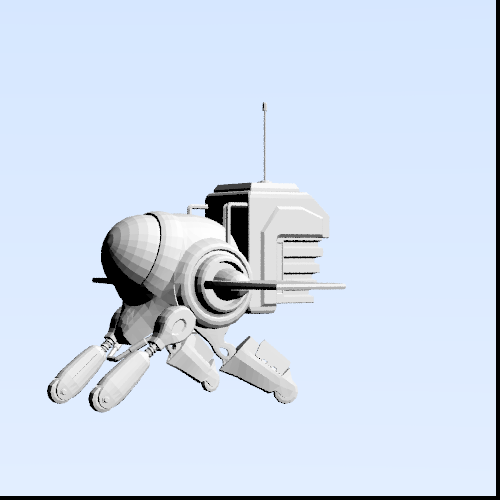
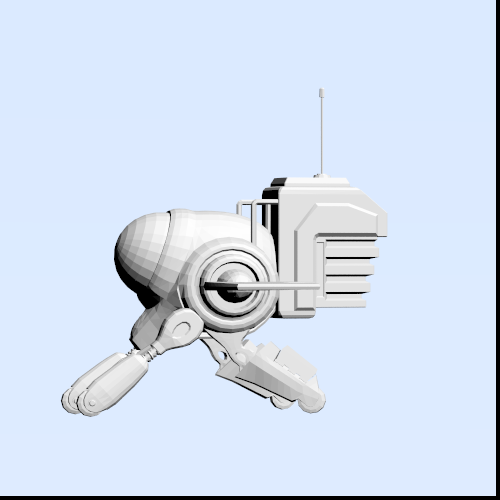
fix stuff

Changed region(s): [[0.09, 0.18, 0.78, 0.84]]

diff --git a/examples/gpu.rs b/examples/gpu.rs
@@ -1,5 +1,6 @@
 use std::{mem::size_of, rc::Rc, time::Instant};
 
+use cgmath::{vec3, Transform};
 use gpu_tracer::{
     gpu::{
         blas::{Blas, Instance},
@@ -32,10 +33,7 @@ fn load_shader(name: &str) -> String {
     shader_compiler.compile()
 }
 #[derive(Clone, Copy)]
-struct Progress {
-    pub frame: u32,
-    pub bounce: u32,
-}
+struct Params(pub Mat4, pub Mat4, pub u32, pub u32);
 
 fn main() {
     let gpu = Gpu::new("My Application");
@@ -69,9 +67,9 @@ fn main() {
     let width = 500;
     let height = 500;
     let frame_data = gpu.create_frame_data(device_context.clone(), UVec2::new(width, height));
-    let ray_generation_shader = load_shader("ray_gen.glsl");
+    let ray_gen = load_shader("ray_gen.glsl");
     let mut gpu_ray_generator =
-        GpuRayGenerator::new_from_string(device_context.clone(), &ray_generation_shader, 1, None);
+        GpuRayGenerator::new_from_string(device_context.clone(), &ray_gen, 1, None);
     let mut gpu_intersector = GpuIntersector::new(device_context.clone(), 1);
 
     let ray_shader = load_shader("ray_shader.glsl");
@@ -92,21 +90,25 @@ fn main() {
     transition_buffer.image_resource_transition(&mut image, ImageLayout::GENERAL);
     transition_buffer.submit();
 
-    let mut progress = Progress {
-        frame: 0,
-        bounce: 0,
-    };
+    let proj_inverse =
+        cgmath::perspective(cgmath::Deg(45.0), width as f32 / height as f32, 0.01, 100.0)
+            .inverse_transform()
+            .unwrap();
+    let view_inverse = Mat4::from_translation(vec3(-3.0, 0.0, 10.0))
+        .inverse_transform()
+        .unwrap();
+    let mut progress = Params(view_inverse, proj_inverse, 0, 0);
     gpu_shader.set_user_buffer(1, 0, &index_buffer);
     gpu_shader.set_user_buffer(1, 1, &vertex_buffer);
     let now = Instant::now();
     let mut command_buffer = CommandBuffer::new(queue.clone());
     command_buffer.begin();
-    for _ in 0..4 {
+    for _ in 0..32 {
         gpu_ray_generator.generate_rays(&mut command_buffer, &frame_data, Some(&progress));
         gpu_intersector.intersect(&mut command_buffer, &frame_data, &acceleration_structure);
         gpu_shader.shade_rays(&mut command_buffer, &frame_data, &acceleration_structure);
         ray_accumulator.accumulate(&mut command_buffer, &frame_data, &mut image);
-        progress.frame += 1
+        progress.2 += 1
     }
     command_buffer.submit();
     let elapsed_time = now.elapsed();
@@ -126,7 +128,7 @@ fn main() {
         let pixels: Vec<HdrColor> = staging_buffer.copy_data();
         write_hdr_buffer_to_file(
             "accumulation_buffer.png",
-            (progress.frame as usize).max(1),
+            (progress.2 as usize).max(1),
             &pixels,
             width as _,
             height as _,

diff --git a/src/ray_tracer/ray_tracing_pipeline.rs b/src/ray_tracer/ray_tracing_pipeline.rs
@@ -2,7 +2,11 @@ use std::rc::Rc;
 
 use vk_utils::device_context::DeviceContext;
 
-use crate::gpu::{gpu_ray_generator::GpuRayGenerator, gpu_ray_shader::GpuRayShader};
+use crate::gpu::{
+    gpu_ray_accumulator::{self, GpuRayAccumulator},
+    gpu_ray_generator::GpuRayGenerator,
+    gpu_ray_shader::GpuRayShader,
+};
 
 use super::{
     shader_binding_table::ShaderBindingTable, shader_compiler::ShaderCompiler,
@@ -11,7 +15,8 @@ use super::{
 
 pub struct RayTracingPipeline {
     ray_generator: GpuRayGenerator,
-    ray_shader: GpuRayShader,
+    hit_shader: GpuRayShader,
+    ray_accumulator: GpuRayAccumulator,
 }
 
 impl RayTracingPipeline {
@@ -29,10 +34,16 @@ impl RayTracingPipeline {
         ray_gen_module: &ShaderModule,
         miss_module: &ShaderModule,
         hit_module: &ShaderModule,
-    ) {
+    ) -> Self {
         let ray_generator =
             GpuRayGenerator::new_from_string(device.clone(), ray_gen_module.source(), 1, None);
-        let ray_shader = GpuRayShader::new_from_string(device, ray_gen_module.source(), 1, None);
-        // let shader_binding_table = ShaderBindingTable::new(ray_gen_module, miss_module, hit_module);
+        let hit_shader =
+            GpuRayShader::new_from_string(device.clone(), ray_gen_module.source(), 1, None);
+        let ray_accumulator = GpuRayAccumulator::new(device.clone(), 1);
+        Self {
+            ray_generator,
+            hit_shader,
+            ray_accumulator,
+        }
     }
 }
